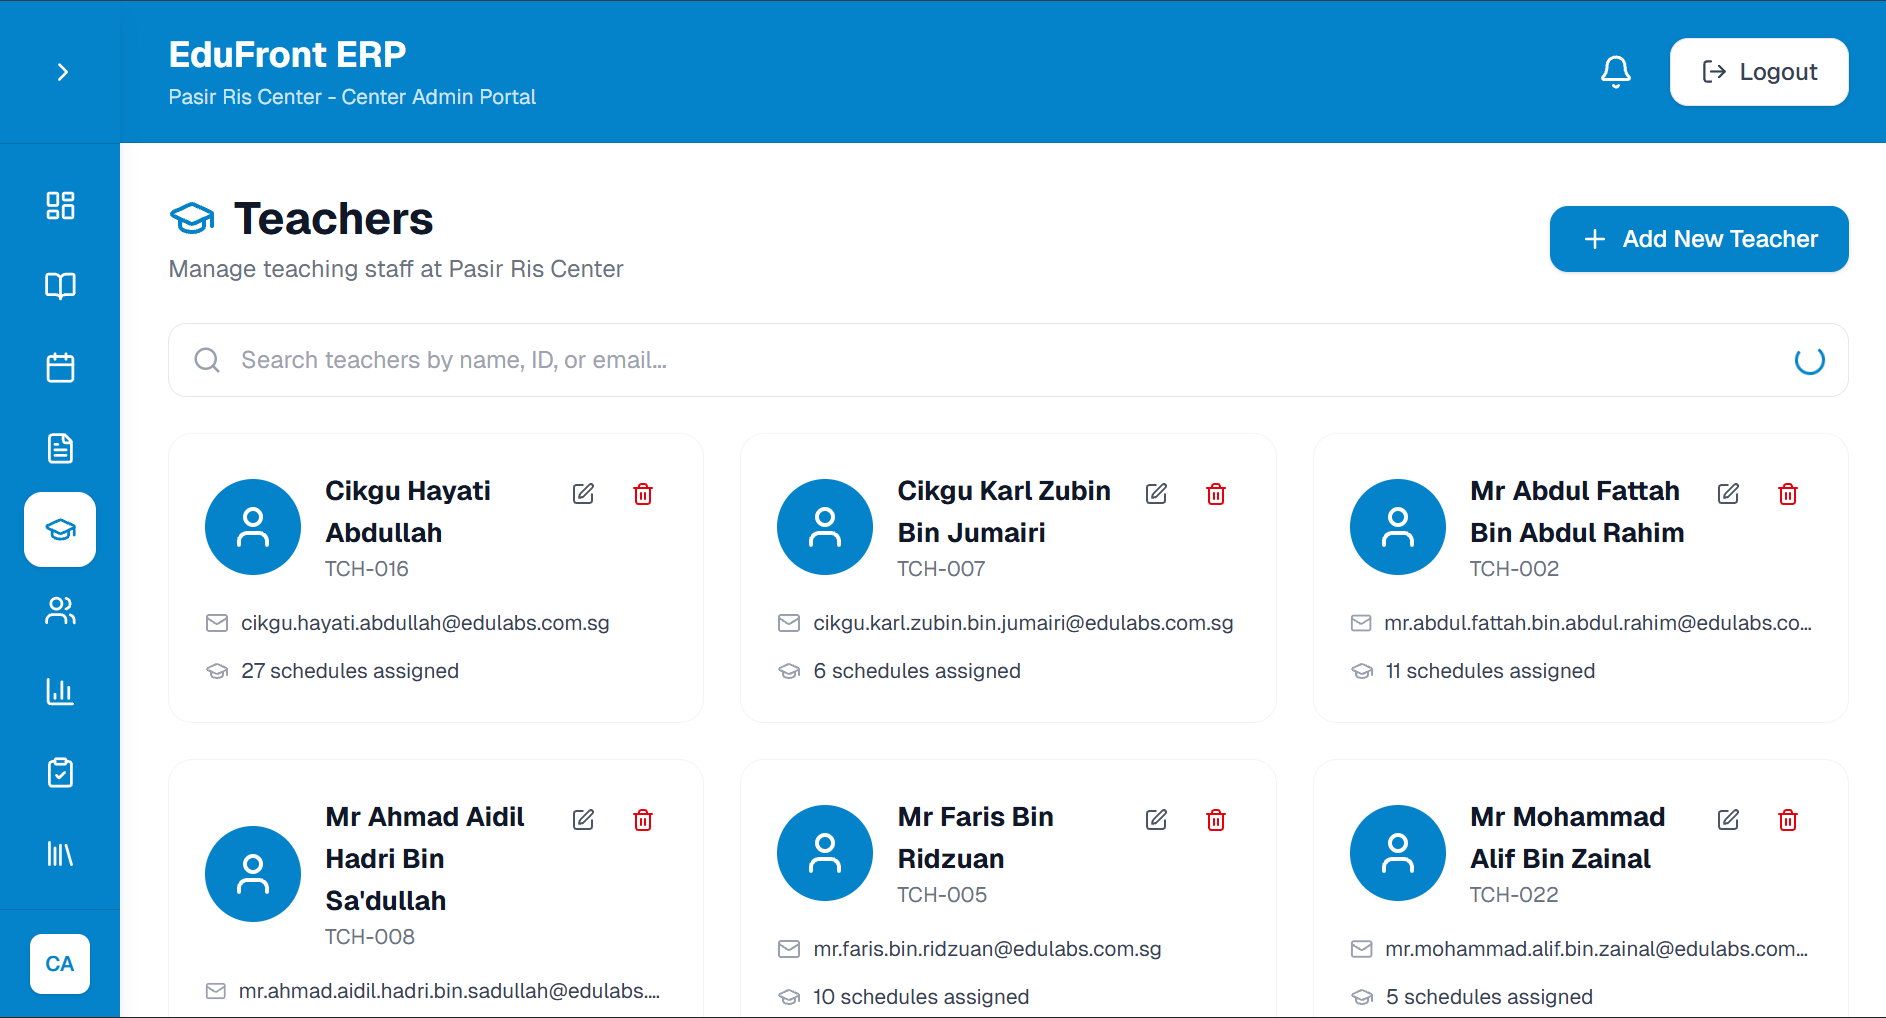
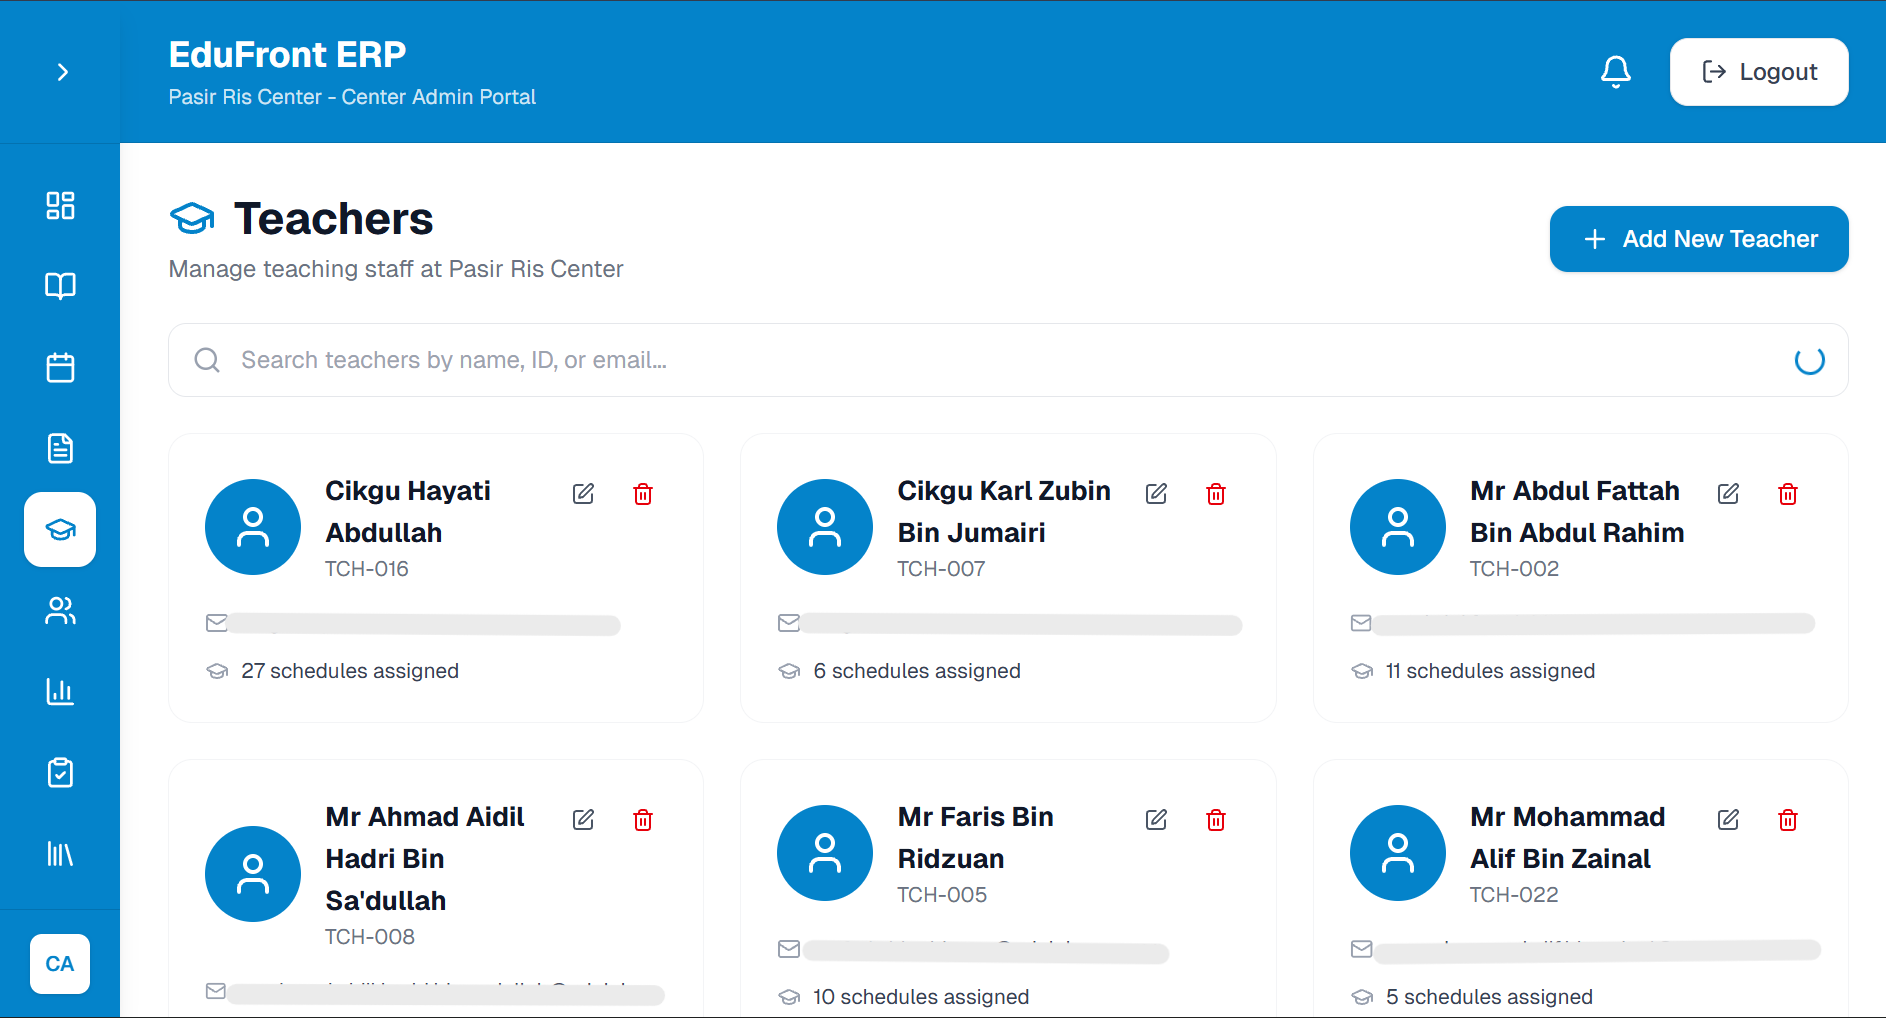
Link the homepage product cards to their case studies
The three cards under "Our Products" describe exactly the three products
that have full case-study pages, but were inert — a visitor who read one
and wanted more had nowhere to click. Distribution now goes to /work/skt,
Learning Management to /work/edufront, Shipping Logistics to
/work/seapol.

Lifted the cards into a products array and mapped over them rather than
wrapping three copy-pasted 22-line blocks in links, matching the pattern
app/work/page.tsx already uses. A fourth product is now one array entry
instead of another duplicated block, and the NN / NN counter derives from
the index so it cannot drift out of sync with the order.

Care taken over one real difference between the cards: the distribution
image is centre-cropped while the other two are anchored left. Kept as a
per-product field rather than flattened.

Claude-Session: https://claude.ai/code/session_011F81iarq97xmXULqjSBH6a

diff --git a/app/page.tsx b/app/page.tsx
@@ -1,7 +1,38 @@
 "use client";
 
+import Link from "next/link";
 import LiquidEther from "@/components/LiquidEther";
 import Navbar from "@/components/Navbar";
+
+// Display order is this array's order; the NN / NN counter is derived from it.
+// Note imageClass differs — the distribution shot is centre-cropped, the other
+// two are anchored left.
+const products = [
+  {
+    label: "Distribution System",
+    body: "A complete distribution management system with inventory tracking, sales processing, and automated invoicing — built entirely around your workflow.",
+    tags: "Inventory  ·  Sales  ·  Invoicing",
+    image: "/work/skt/best-erp-software-04-microsoft.webp",
+    imageClass: "",
+    href: "/work/skt",
+  },
+  {
+    label: "Learning Management System",
+    body: "A comprehensive learning management system covering courses, assignments, teachers, students, fees, payroll, leave applications, and accounting — all in one platform.",
+    tags: "Course  ·  Assignments  ·  Fees   ·  Leave  ·  Accounting",
+    image: "/work/edufront/edufront1.png",
+    imageClass: "object-left",
+    href: "/work/edufront",
+  },
+  {
+    label: "Shipping Logistics ERP",
+    body: "A powerful shipping logistics ERP system for managing vessels, cargo, deliveries, and accounts — providing real-time fleet tracking and cargo distribution insights.",
+    tags: "Vessels  ·  Cargo  ·  Delivery  ·  Fleet Tracking",
+    image: "/work/seapol/image.png",
+    imageClass: "object-left",
+    href: "/work/seapol",
+  },
+];
 
 export default function Home() {
   return (
@@ -69,73 +100,36 @@ export default function Home() {
             We can build anything. But here are some examples to understand us better
           </p>
         </div>
-        <div className="mt-12 mx-auto max-w-4xl px-4">
-          <div className="bg-white rounded-3xl shadow-lg overflow-hidden">
-            <div className="grid grid-cols-1 md:grid-cols-2">
-              <div className="p-6 sm:p-10 flex flex-col justify-center">
-                <p className="text-xs text-gray-400 tracking-widest uppercase">
-                  01 / 03 &nbsp;&middot;&nbsp; Distribution System
-                </p>
-                <p className="text-base sm:text-lg leading-relaxed text-gray-800 mt-6">
-                  A complete distribution management system with inventory tracking, sales processing, and automated invoicing — built entirely around your workflow.
-                </p>
-                <p className="mt-6 text-xs tracking-wide text-gray-400 uppercase">
-                  Inventory &nbsp;·&nbsp; Sales &nbsp;·&nbsp; Invoicing
-                </p>
+        <div className="mt-12 mx-auto max-w-4xl px-4 space-y-8">
+          {products.map((product, i) => (
+            <Link
+              key={product.href}
+              href={product.href}
+              className="block bg-white rounded-3xl shadow-lg hover:shadow-xl transition-shadow overflow-hidden"
+            >
+              <div className="grid grid-cols-1 md:grid-cols-2">
+                <div className="p-6 sm:p-10 flex flex-col justify-center">
+                  <p className="text-xs text-gray-400 tracking-widest uppercase">
+                    {String(i + 1).padStart(2, "0")} / {String(products.length).padStart(2, "0")}
+                    &nbsp;&middot;&nbsp; {product.label}
+                  </p>
+                  <p className="text-base sm:text-lg leading-relaxed text-gray-800 mt-6">
+                    {product.body}
+                  </p>
+                  <p className="mt-6 text-xs tracking-wide text-gray-400 uppercase">
+                    {product.tags}
+                  </p>
+                </div>
+                <div className="relative min-h-[220px] sm:min-h-[350px]">
+                  <img
+                    src={product.image}
+                    alt={product.label}
+                    className={`absolute inset-0 object-cover ${product.imageClass} h-full w-full md:rounded-r-3xl`}
+                  />
+                </div>
               </div>
-              <div className="relative min-h-[220px] sm:min-h-[350px]">
-                <img
-                  src="/work/skt/best-erp-software-04-microsoft.webp"
-                  alt="Distribution System"
-                  className="absolute inset-0 object-cover h-full w-full md:rounded-r-3xl"
-                />
-              </div>
-            </div>
-          </div>
-          <div className="mt-8 bg-white rounded-3xl shadow-lg overflow-hidden">
-            <div className="grid grid-cols-1 md:grid-cols-2">
-              <div className="p-6 sm:p-10 flex flex-col justify-center">
-                <p className="text-xs text-gray-400 tracking-widest uppercase">
-                  02 / 03 &nbsp;&middot;&nbsp; Learning Management System
-                </p>
-                <p className="text-base sm:text-lg leading-relaxed text-gray-800 mt-6">
-                  A comprehensive learning management system covering courses, assignments, teachers, students, fees, payroll, leave applications, and accounting — all in one platform.
-                </p>
-                <p className="mt-6 text-xs tracking-wide text-gray-400 uppercase">
-                  Course &nbsp;·&nbsp; Assignments &nbsp;·&nbsp; Fees &nbsp;&nbsp;·&nbsp; Leave &nbsp;·&nbsp; Accounting
-                </p>
-              </div>
-              <div className="relative min-h-[220px] sm:min-h-[350px]">
-                <img
-                  src="/work/edufront/edufront1.png"
-                  alt="Learning Management System"
-                  className="absolute inset-0 object-cover object-left h-full w-full md:rounded-r-3xl"
-                />
-              </div>
-            </div>
-          </div>
-          <div className="mt-8 bg-white rounded-3xl shadow-lg overflow-hidden">
-            <div className="grid grid-cols-1 md:grid-cols-2">
-              <div className="p-6 sm:p-10 flex flex-col justify-center">
-                <p className="text-xs text-gray-400 tracking-widest uppercase">
-                  03 / 03 &nbsp;&middot;&nbsp; Shipping Logistics ERP
-                </p>
-                <p className="text-base sm:text-lg leading-relaxed text-gray-800 mt-6">
-                  A powerful shipping logistics ERP system for managing vessels, cargo, deliveries, and accounts — providing real-time fleet tracking and cargo distribution insights.
-                </p>
-                <p className="mt-6 text-xs tracking-wide text-gray-400 uppercase">
-                  Vessels &nbsp;·&nbsp; Cargo &nbsp;·&nbsp; Delivery &nbsp;·&nbsp; Fleet Tracking
-                </p>
-              </div>
-              <div className="relative min-h-[220px] sm:min-h-[350px]">
-                <img
-                  src="/work/seapol/image.png"
-                  alt="Shipping Logistics ERP"
-                  className="absolute inset-0 object-cover object-left h-full w-full md:rounded-r-3xl"
-                />
-              </div>
-            </div>
-          </div>
+            </Link>
+          ))}
         </div>
       </section>
     </div>
